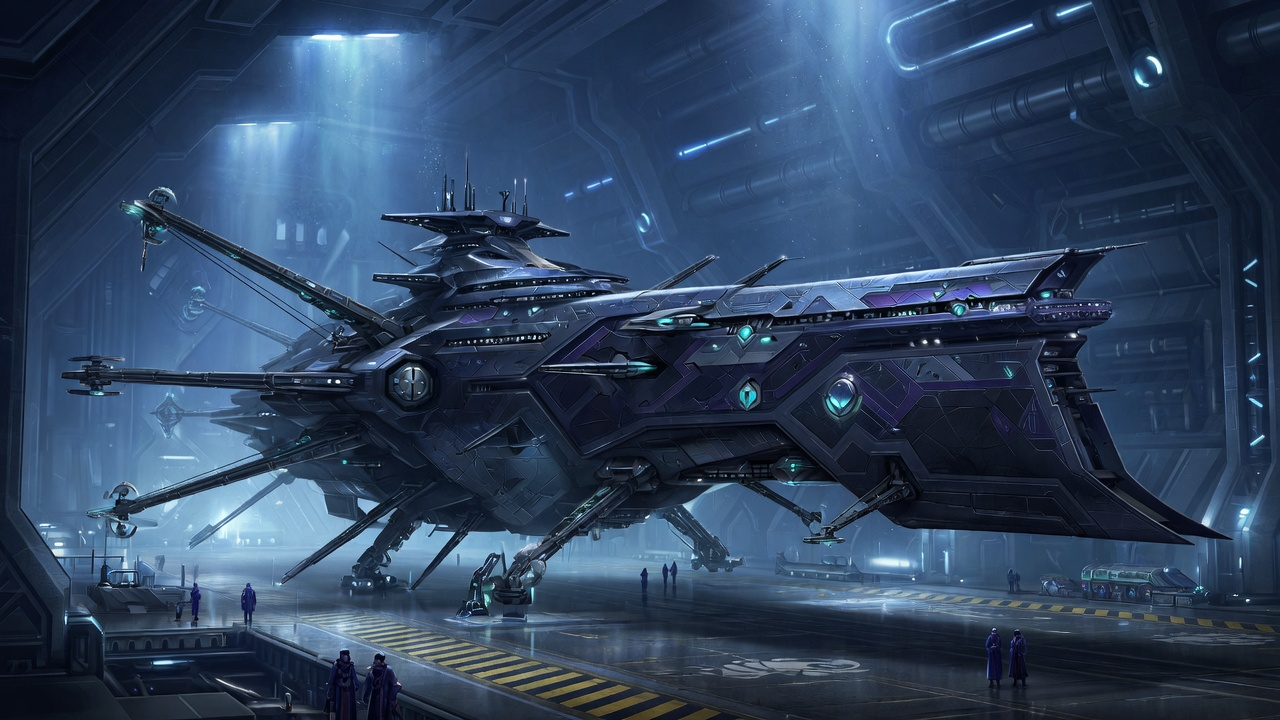
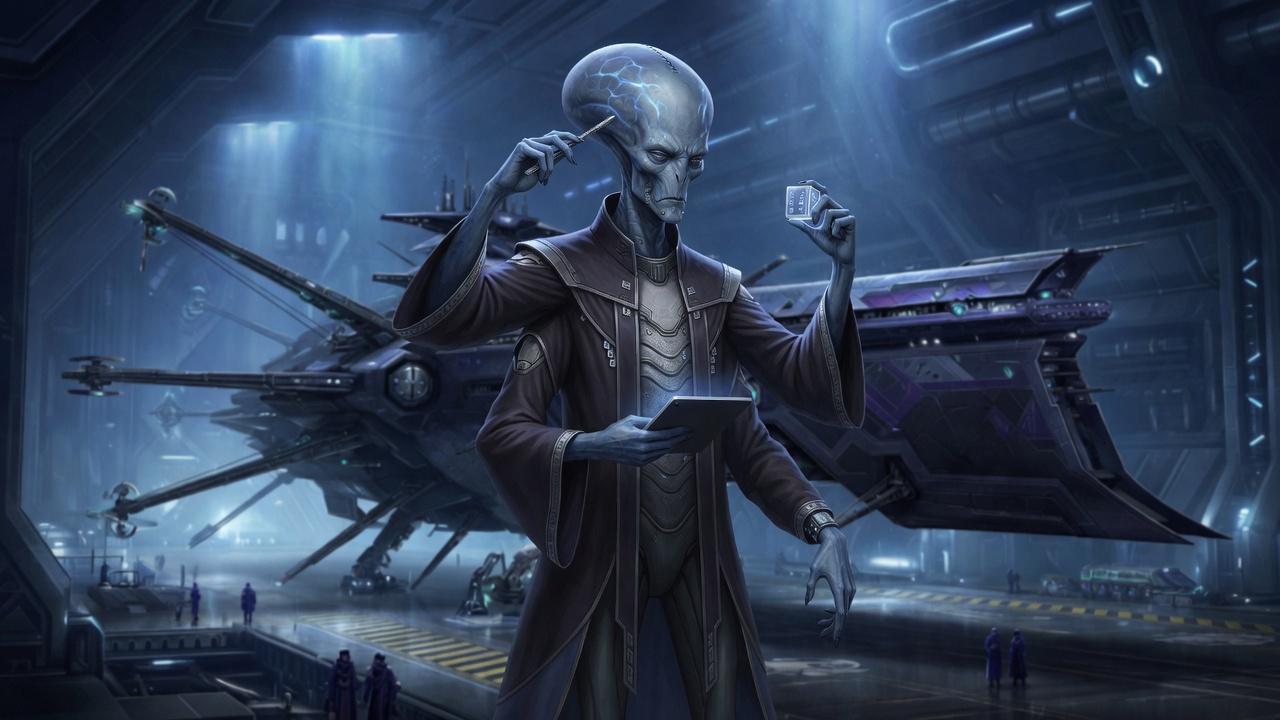
Regenerate Heresy Dominion plate so the hexapod clade is visible.
The prior hangar image was accurate but ignored the brief: only distant
figures, no countable four-arm body plan. Recompose from Olomo plus the
old dock plate, clear the IMAGE-REVIEW query, and document the change.

diff --git a/exodus-the-archimedes-engine/docs/visual-briefs/IMAGE-REVIEW.md b/exodus-the-archimedes-engine/docs/visual-briefs/IMAGE-REVIEW.md
@@ -10,14 +10,14 @@ Two passes, reviewed separately:
 | Pass | Subjects | Result |
 |---|---|---|
 | **First** — characters and ships | 46 | 37 pass · 3 query · 6 fail → **all 46 pass** after regeneration |
-| **Second** — places, technology, factions | 13 | **12 pass · 1 query · 0 fail** |
+| **Second** — places, technology, factions | 13 | 12 pass · 1 query · 0 fail → **all 13 pass** after Heresy regen |
 
 The second pass is written up under [Second pass](#second-pass--places-technology-and-factions);
 everything below it concerns the first.
 
 | Verdict | Count | Meaning |
 |---|---:|---|
-| **PASS** | 46 | After regen (25 July 2026 evening): prior 6 FAIL + 3 QUERY replaced |
+| **PASS** | 59 | First pass 46 after regen; second pass 13 after Heresy regen |
 | **QUERY** | 0 | Cleared by regen |
 | **FAIL** | 0 | Cleared by regen |
 
@@ -31,7 +31,7 @@ Historical first-pass tally (before regen): 37 pass · 3 query · 6 fail. Detail
 
 ## Second pass — places, technology and factions
 
-**Reviewed 25 July 2026 · 13 subjects · 12 pass · 1 query · 0 fail.**
+**Reviewed 25 July 2026 · 13 subjects · 12 pass · 1 query · 0 fail → all 13 pass after regen.**
 
 **No burned-in text anywhere. No real-world logos. No clade contradictions.** That is the headline,
 because it is exactly what the first pass failed on. `write-extra-visual-briefs.mjs` appends a
@@ -39,21 +39,18 @@ because it is exactly what the first pass failed on. `write-extra-visual-briefs.
 captions, no labels, no lettering, no logos, no brand marks, no map names, no UI chrome, no
 watermarks"* — and across 13 images it held. The fix worked.
 
-### QUERY — `faction/heresy-dominion`
+### QUERY (cleared) — `faction/heresy-dominion`
 
-Canon-clean, but it is **not the image its brief asked for**. The brief specifies *"a vast spindly
-hexapod Celestial silhouette (exactly four arms, two legs) before a huge research wall"* — the
-delivered plate is a capital warship in a hangar, with the only figures small, robed and too distant
-to count limbs.
+**Prior defect:** canon-clean hangar plate of a capital warship, but **not the image its brief
+asked for**. The brief specifies a vast spindly hexapod Celestial (exactly four arms, two legs)
+before a huge research warship; the first delivery buried the only figures as small robed silhouettes
+too distant to count limbs. Consequence: the Heresy body plan was illustrated nowhere except
+Olomo's portrait.
 
-Nothing in it contradicts the wiki: `heresy-dominion.html` says the Heresy field *"large individual
-warships"* whose *"individual hulls carry heavy defensive systems because the Heresy fields fewer
-traditional war fleets"*, and that they outscale Crown hulls like the *Alumata*. So it passes on
-accuracy and fails only on intent.
-
-The consequence is worth naming: the Heresy body plan — the four-arm hexapod build that was drawn
-wrong on Olomo and had to be regenerated twice — is now illustrated **nowhere except Olomo's
-portrait**. The one plate meant to establish the clade visually does not show it.
+**Regen (25 July 2026):** re-composed via `image_edit` from the Olomo portrait (body-plan anchor)
+plus the prior hangar plate (ship/environment). Foreground hexapod shows **exactly four arms and
+two legs**; research warship remains in cool blue dock light behind. No caption bars, logos, or
+invented labels. **PASS.**
 
 ### PASS — with observations
 
@@ -71,17 +68,19 @@ portrait**. The one plate meant to establish the clade visually does not show it
 | `faction/celestials` | Tall elegant figures, bloodstone jewellery, livestone terrace — textbook clade grammar |
 | `faction/crown-dominion` | Palace mountain complex, georing, fleet, crystalline house heraldry. **Five** banners are shown; the Crown has **six** royal systems, so if banners read as houses, one is missing |
 | `faction/travelers` | Salvage yard, worn freighter hulls, EVA crews mid-repair. The ring **gate** is canon-supported — the wiki has *"multi-decade gate hops"* and Tinaja's *"Gate of Heaven"* — so it is not the FTL-portal contradiction it first looks like |
+| `faction/heresy-dominion` | **PASS after regen.** Foreground hexapod (four arms, two legs) establishes the clade; research warship behind. Body plan chained from Olomo |
 
 ### What the second pass says
 
 - **The widened negative prompt is doing real work.** Zero text across 13 images, against three
   caption bars in 46 on the first pass.
-- **Briefs can be silently ignored.** Heresy passed every automated check and reads well, yet the
-  generator simply did not draw what was asked. Nothing but a human comparing brief to asset catches
-  that — `check-images.mjs` sees a file of the right name and size.
-- **Cross-image consistency held** where it mattered: Dolod against the Archimedes Engine, and
-  Mindline against Makaio. Worth checking deliberately, since the first pass failed exactly there
-  with the Jalgori-Tobu siblings.
+- **Briefs can be silently ignored.** Heresy passed every automated check and read well on the
+  first delivery, yet the generator simply did not draw what was asked. Nothing but a human
+  comparing brief to asset catches that — `check-images.mjs` sees a file of the right name and size.
+  Cleared by re-gen with an explicit body-plan reference image.
+- **Cross-image consistency held** where it mattered: Dolod against the Archimedes Engine,
+  Mindline against Makaio, and (after regen) Heresy against Olomo. Worth checking deliberately,
+  since the first pass failed exactly there with the Jalgori-Tobu siblings.
 
 ---
 
@@ -103,8 +102,9 @@ chained from the new Finn portrait so ancestry matches.
 | `eleanor-aponi` | CYCLE 9 name tape | Blank tapes; no rank lettering |
 | `marcellu` | MARCE-17 marking | Clean suit, no serial |
 | `asahi-iryna` | Empire-like cog emblem | Crystal bloodstone ornament only |
+| `heresy-dominion` | Ship hangar only; hexapod clade not shown | Four-arm hexapod foreground + research warship; chained from Olomo |
 
-No HTML path changes; same `assets/images/characters/<slug>.jpg` targets.
+No HTML path changes; same `assets/images/…/<slug>.jpg` targets.
 
 Every textual claim found inside an image was checked against the wiki by grep. Counts below are
 page hits across `pages/`.

diff --git a/exodus-the-archimedes-engine/docs/visual-briefs/heresy-dominion.md b/exodus-the-archimedes-engine/docs/visual-briefs/heresy-dominion.md
@@ -15,7 +15,7 @@
 ## Inference flags
 
 - Visual inference where the book is silent; no invented labels, dates, or place-names in the image.
-- Shipped plate emphasises a **Heresy research warship** in dock rather than a close hexapod figure, to avoid arm-count errors that plagued character-scale hexapod gens.
+- Foreground hexapod is clade-representative, not a named individual; body plan chained from the Olomo portrait so arm count stays at four arms + two legs.
 
 ## Generation prompt
 
